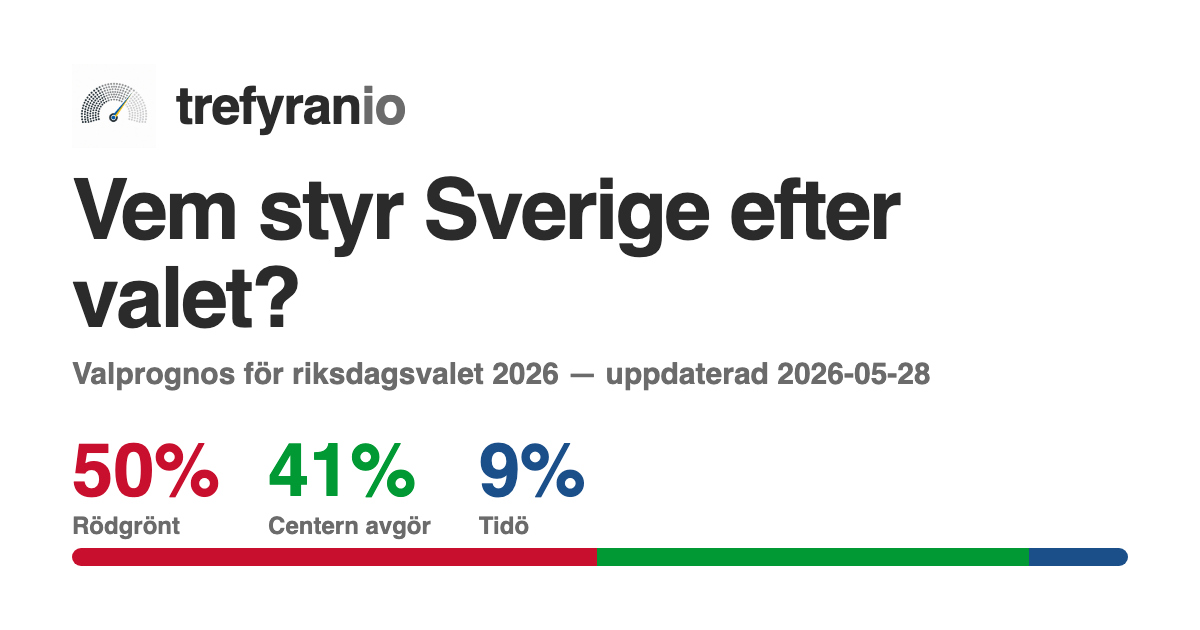
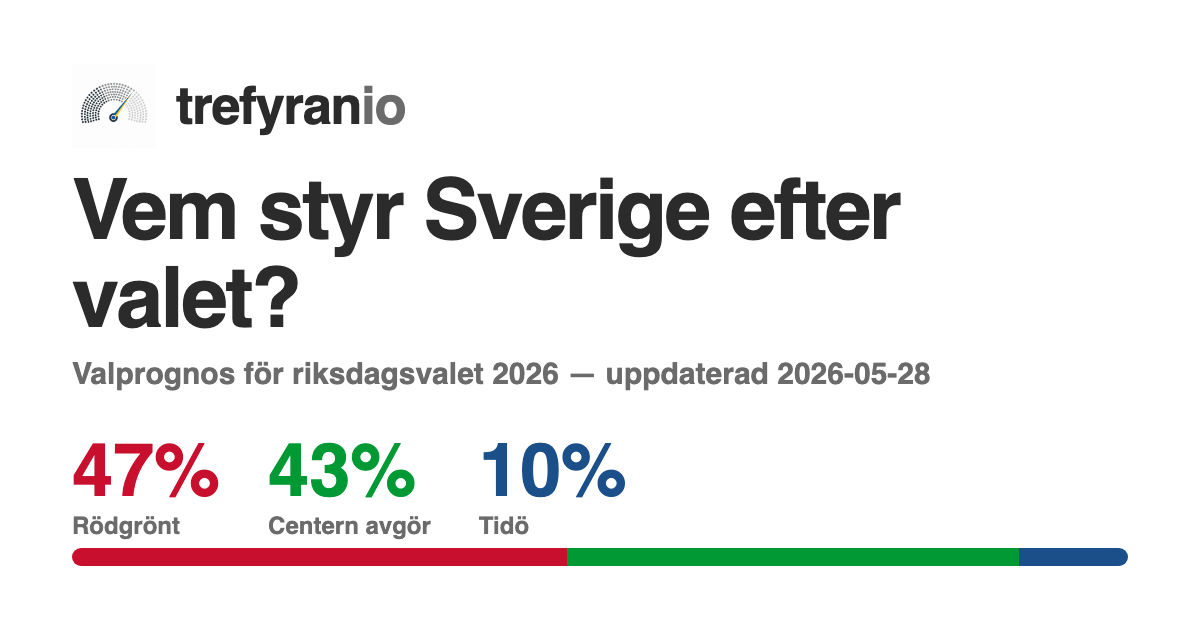
Wire the Phase-2 ratings layer into the model
The ratings layer (ratings.py) was computed but disconnected — the model
re-estimated house effects from a zero prior, weighted polls only by sample
size, and never corrected the field-wide bias. Because house effects are
centered to the poll consensus, the known persistent industry miss was baked
into the central forecast as an uncorrected MEAN bias (not just spread).

Three connections:
- Industry-bias correction: a heavily-shrunk (30%) per-party shift applied to
  the election-day forecast (forecast_with_miss industry_shift). The 2010-2022
  final-poll record shows the field understates S (~2.2pp) and overstates V/MP
  (~1pp); SD's final-poll bias is actually small (~0.2pp). Live effect:
  S 32.8->33.3, M +0.3, V -0.4, MP -0.3 — matches the shift exactly.
- House-effect priors: each pollster's house prior is warm-started from its
  historical lean, de-biased of the field-wide component (so it's compatible
  with the model's cross-pollster centering) and mapped share->ALR at the
  anchor. Confirmed the effective house nudges toward history (cos +0.7..+0.94)
  while the abundant current-cycle data dominates. New entrants -> zero prior.
- Accuracy weights: pollster ratings.weight enters as per-poll Dirichlet
  concentration (kappa_vec = KAPPA*weight), not total_count. New entrants -> 1.0.

prepare() gains use_ratings (backtests set False — the 2010-2022 ratings would
leak future results into a past cycle). Added house_effective deterministic for
[…]

diff --git a/src/trefyranio/model.py b/src/trefyranio/model.py
@@ -133,6 +133,10 @@ class ModelData:
     anchor_alr: np.ndarray    # (KM1,) ALR of the previous result
     pollsters: list[str]
     weeks_dates: list[dt.date]
+    # Phase-2 ratings, wired in (zeros/ones/zeros when use_ratings=False):
+    house_prior_alr: np.ndarray      # (P, KM1) per-pollster ALR house-effect prior MEAN
+    poll_weight: np.ndarray          # (n_polls,) accuracy weight of each poll's pollster
+    industry_shift_share: np.ndarray # (K,) share-space election-day field-bias correction
 
 
 def _alr(p: np.ndarray) -> np.ndarray:
@@ -141,15 +145,65 @@ def _alr(p: np.ndarray) -> np.ndarray:
     return np.log(np.delete(p, REF) / p[REF])
 
 
+# Industry-bias shrinkage. The field-wide miss (e.g. the persistent SD/S
+# underestimate) is estimated on only 4 elections and pollsters have partly
+# adapted, so we apply only a fraction of it as an election-day correction.
+# NOTE: when the model-carried-error rework lands, this share-space shift becomes
+# the election-day fundamentals/anchor prior's mean offset — a one-line move.
+SHRINK_IND = 0.30
+
+
+def _build_house_priors(pollsters: list[str], anchor_share: np.ndarray,
+                        house_eff: pd.DataFrame, industry: pd.DataFrame) -> np.ndarray:
+    """Per-pollster ALR house-effect prior MEANS from history → (P, KM1).
+
+    ratings.py measures house effects vs the ACTUAL result (= a pollster's lean
+    vs the field PLUS the field-wide industry bias) in SHARE space. The model's
+    `house` is vs the poll CONSENSUS in ALR. So we (1) de-bias — subtract the
+    field-wide `industry_bias` so each prior is the pollster's lean *relative to
+    the field* (≈ consensus), which is also what the model's centring expects;
+    (2) map share→ALR exactly via the Jacobian at the `anchor` baseline. New
+    entrants (no history) get a zero prior. No explicit centring here: the
+    de-bias already leaves matched priors ≈field-mean-zero, and the model's
+    `house -= house.mean(0)` enforces identifiability."""
+    P = len(pollsters)
+    ind = {r.party: r.bias for r in industry.itertuples()}
+    industry_vec = np.array([ind.get(p, 0.0) for p in PARTY_ORDER])      # (K,)
+    he = house_eff.set_index(["pollster", "party"])["house_effect"]
+    prior = np.zeros((P, KM1))
+    for i, name in enumerate(pollsters):
+        effect = np.array([he.get((name, p), 0.0) for p in PARTY_ORDER])  # (K,) share
+        if not np.any(effect):                                            # new entrant
+            continue
+        debiased = effect - industry_vec
+        perturbed = np.clip(anchor_share + debiased, 1e-6, None)
+        perturbed = perturbed / perturbed.sum()
+        prior[i] = _alr(perturbed) - _alr(anchor_share)
+    return prior
+
+
+def _load_pollster_weights(pollsters: list[str], ratings: pd.DataFrame) -> np.ndarray:
+    """Per-pollster accuracy weight (centred on 1.0); 1.0 for new entrants → (P,)."""
+    w = ratings.set_index("pollster")["weight"]
+    return np.array([float(w.get(name, 1.0)) for name in pollsters])
+
+
 def prepare(polls: pd.DataFrame, results: pd.DataFrame,
-            cycle: CycleConfig = CYCLE_2026, as_of: dt.date | None = None) -> ModelData:
+            cycle: CycleConfig = CYCLE_2026, as_of: dt.date | None = None,
+            use_ratings: bool = True) -> ModelData:
     """Assemble model inputs from the poll + result spines for a cycle.
 
     Polls are restricted to the cycle window [start, election_day]. ``as_of``
     additionally drops polls taken after that date — used to backtest at a
     chosen *horizon* (e.g. cut 14 weeks before the election to match how far the
     live forecast sits from its last poll). The forecast still targets election
-    day, so the gap between ``as_of`` and election day is the forecast horizon."""
+    day, so the gap between ``as_of`` and election day is the forecast horizon.
+
+    ``use_ratings`` wires in the Phase-2 ratings layer (house-effect priors,
+    accuracy weights, industry-bias correction). Backtests set it False: the
+    ratings span 2010–2022, so applying them to a pre-2022 cycle would leak
+    future results — and the backtest's job is to test the uncertainty model,
+    not the warm-start."""
     cutoff = min(cycle.election_day, as_of) if as_of else cycle.election_day
     df = polls.copy()
     df["date"] = df["field_end"].fillna(df["pub_date"])
@@ -188,10 +242,34 @@ def prepare(polls: pd.DataFrame, results: pd.DataFrame,
     anchor = anchor / anchor.sum()
 
     weeks_dates = [cycle.start + dt.timedelta(weeks=int(w)) for w in range(n_weeks)]
+
+    # Phase-2 ratings layer. Guarded: missing files (or use_ratings=False) →
+    # neutral defaults (zero priors, unit weights, no industry shift).
+    P = len(pollsters)
+    house_prior = np.zeros((P, KM1))
+    poll_weight = np.ones(len(counts))
+    industry_shift = np.zeros(K)
+    he_path = PROCESSED_DIR / "pollster_house_effects.parquet"
+    ind_path = PROCESSED_DIR / "industry_bias.parquet"
+    rat_path = PROCESSED_DIR / "pollster_ratings.parquet"
+    if use_ratings and he_path.exists() and ind_path.exists() and rat_path.exists():
+        industry = pd.read_parquet(ind_path)
+        house_prior = _build_house_priors(pollsters, anchor,
+                                          pd.read_parquet(he_path), industry)
+        pollster_w = _load_pollster_weights(pollsters, pd.read_parquet(rat_path))
+        poll_weight = pollster_w[pollster]
+        ind = {r.party: r.bias for r in industry.itertuples()}
+        # Field UNDERSTATES a party (bias<0) → push its election-day share UP.
+        industry_shift = np.array([-SHRINK_IND * ind.get(p, 0.0) for p in PARTY_ORDER])
+    elif use_ratings:
+        print("  ratings parquets missing → neutral priors/weights (run ratings.build())")
+
     return ModelData(
         counts=counts, totals=totals, week=week, pollster=pollster,
         n_weeks=n_weeks, election_week=election_week, anchor_alr=_alr(anchor),
         pollsters=pollsters, weeks_dates=weeks_dates,
+        house_prior_alr=house_prior, poll_weight=poll_weight,
+        industry_shift_share=industry_shift,
     )
 
 
@@ -223,8 +301,15 @@ def model(data: ModelData, use_velocity: bool = False):
     Likelihood: Dirichlet-Multinomial with fixed overdispersion."""
     T, P = data.n_weeks, len(data.pollsters)
 
+    # House effects: non-centred around a per-pollster PRIOR MEAN from history
+    # (data.house_prior_alr; zeros when ratings off). The residual ~Normal(0,
+    # SIGMA_HOUSE) lets the current cycle override. Still centred across pollsters
+    # so the latent path is the consensus (identifiability vs the level).
+    house_prior = jnp.asarray(data.house_prior_alr)
     house = numpyro.sample("house", dist.Normal(0, SIGMA_HOUSE).expand([P, KM1]).to_event(2))
-    house = house - house.mean(axis=0)  # centred → latent path is the consensus
+    house = house_prior + house
+    house = house - house.mean(axis=0)
+    numpyro.deterministic("house_effective", house)  # the actual per-pollster effect
 
     level0 = numpyro.sample(
         "level0", dist.Normal(jnp.asarray(data.anchor_alr), 0.15).to_event(1)
@@ -249,9 +334,14 @@ def model(data: ModelData, use_velocity: bool = False):
 
     obs_alr = levels[data.week] + house[data.pollster]      # (n_polls, KM1)
     p_obs = jax.nn.softmax(_full_logits(obs_alr), axis=-1)  # (n_polls, K)
+    # Accuracy weights enter as per-poll concentration: a more accurate pollster
+    # gets higher Dirichlet concentration → lower over-dispersion → its poll
+    # constrains the latent more tightly. (Scaling total_count would be invalid —
+    # it's the integer trial count.) Unit weights when ratings off.
+    kappa_vec = KAPPA * jnp.asarray(data.poll_weight)[:, None]
     numpyro.sample(
         "counts",
-        dist.DirichletMultinomial(KAPPA * jnp.clip(p_obs, 1e-7, 1.0),
+        dist.DirichletMultinomial(kappa_vec * jnp.clip(p_obs, 1e-7, 1.0),
                                   total_count=jnp.asarray(data.totals)),
         obs=jnp.asarray(data.counts),
     )
@@ -311,11 +401,16 @@ def _softmax_with_ref(alr: np.ndarray) -> np.ndarray:
 
 def forecast_with_miss(
     election_alr_trend: np.ndarray, sigma_miss: float = MISS_SIGMA,
-    rho: float = MISS_RHO, seed: int = 0,
+    rho: float = MISS_RHO, seed: int = 0, industry_shift: np.ndarray | None = None,
 ) -> np.ndarray:
     """Election-day share samples (S, K): the trend at election week mapped to
-    shares, plus a SHARE-space polling-miss error, clipped to >=0 and
-    renormalized.
+    shares, optionally shifted by the field-bias correction, plus a SHARE-space
+    polling-miss error, clipped to >=0 and renormalized.
+
+    ``industry_shift`` (K,) is the heavily-shrunk field-wide bias correction
+    (e.g. push SD/S up where the industry persistently understates them). Applied
+    to the central forecast BEFORE the miss; it shifts the mean, the miss adds
+    spread around it.
 
     The miss is correlated within blocs via a factor model (see MISS_RHO): each
     party's miss = sqrt(rho)·shared-bloc-factor + sqrt(1-rho)·idiosyncratic. This
@@ -325,6 +420,9 @@ def forecast_with_miss(
     because realized poll errors are ~uniform in pp across party sizes."""
     rng = np.random.default_rng(seed)
     base = _softmax_with_ref(election_alr_trend)              # (S, K) shares
+    if industry_shift is not None:
+        base = np.clip(base + industry_shift, 0.0, None)
+        base = base / base.sum(axis=-1, keepdims=True)
     ngroups = int(MISS_GROUP_IDX.max()) + 1
     factor = rng.standard_normal((base.shape[0], ngroups))[:, MISS_GROUP_IDX]  # shared per bloc
     idio = rng.standard_normal(base.shape)
@@ -335,8 +433,8 @@ def forecast_with_miss(
 
 def build(warmup: int = 600, samples: int = 600) -> None:
     # 600 samples is adequate for the election-day mean (2000 gave an identical
-    # result). Run-to-run differences come from the single-chain RNG draw, not
-    # sample count — multi-chain averaging is the real stability fix (TODO).
+    # result). Seed-robustness comes from multi-chain averaging — fit() runs 4
+    # vectorized chains with an r-hat check — not from sample count.
     polls = pd.read_parquet(PROCESSED_DIR / "polls.parquet")
     results = pd.read_parquet(PROCESSED_DIR / "results_national.parquet")
     data = prepare(polls, results)
@@ -350,15 +448,18 @@ def build(warmup: int = 600, samples: int = 600) -> None:
     # dependent miss sigma (tighter as the election nears).
     horizon = int(data.election_week - data.week.max())
     sigma = miss_sigma_for_horizon(horizon)
-    print(f"horizon {horizon}w → miss sigma {sigma*100:.2f}pp")
-    election = forecast_with_miss(election_alr_trend, sigma_miss=sigma)
+    shift = data.industry_shift_share
+    print(f"horizon {horizon}w → miss sigma {sigma*100:.2f}pp; "
+          f"industry shift (pp): " + ", ".join(
+              f"{p}{shift[k]*100:+.2f}" for k, p in enumerate(PARTY_ORDER) if abs(shift[k]) > 1e-4))
+    election = forecast_with_miss(election_alr_trend, sigma_miss=sigma, industry_shift=shift)
 
     trend.to_parquet(PROCESSED_DIR / "model_trend.parquet", index=False)
     np.savez(
         PROCESSED_DIR / "forecast_samples.npz",
         shares=election, election_alr_trend=election_alr_trend,
         parties=np.array(PARTY_ORDER), election_day=str(CYCLE_2026.election_day),
-        miss_sigma=sigma, horizon_weeks=horizon,
+        miss_sigma=sigma, horizon_weeks=horizon, industry_shift=shift,
     )
     _report(trend, election, CYCLE_2026.election_day)
 

diff --git a/tests/test_model.py b/tests/test_model.py
@@ -15,8 +15,12 @@ import pytest
 from trefyranio import model
 from trefyranio.model import (
     K,
+    KM1,
     PARTY_ORDER,
+    SHRINK_IND,
     _alr,
+    _build_house_priors,
+    _load_pollster_weights,
     _softmax_with_ref,
     forecast_with_miss,
     miss_sigma_for_horizon,
@@ -56,6 +60,56 @@ def test_miss_term_widens_spread():
     # Shares still form a valid simplex after clip + renormalize.
     assert np.allclose(wide.sum(axis=1), 1.0)
     assert (wide >= 0).all()
+
+
+def _anchor():
+    p = np.array([0.30, 0.20, 0.17, 0.08, 0.08, 0.06, 0.04, 0.04, 0.03])
+    return p / p.sum()
+
+
+def test_house_prior_debias_to_zero():
+    # A pollster whose historical lean EQUALS the field-wide industry bias has no
+    # consensus-relative lean → its de-biased ALR prior should be ~0.
+    parties = PARTY_ORDER[:-1]  # 8 Riksdag parties (ratings exclude Övr)
+    bias = {"S": -0.02, "M": 0.01, "SD": -0.015, "C": 0.0, "V": 0.012, "KD": 0.003, "MP": 0.008, "L": 0.004}
+    industry = pd.DataFrame({"party": list(bias), "bias": list(bias.values())})
+    # pollster "Same" mirrors the field; "Lean" adds +1pp on SD beyond the field.
+    rows = []
+    for party in parties:
+        rows.append(("Same", party, bias[party]))
+        rows.append(("Lean", party, bias[party] + (0.01 if party == "SD" else 0.0)))
+    he = pd.DataFrame(rows, columns=["pollster", "party", "house_effect"])
+    prior = _build_house_priors(["Same", "Lean"], _anchor(), he, industry)
+    assert prior.shape == (2, KM1)
+    assert np.allclose(prior[0], 0.0, atol=1e-9)            # mirrors field → no lean
+    sd_idx = PARTY_ORDER.index("SD") - 1                    # ALR drops the reference (S)
+    assert prior[1, sd_idx] > 0.02                          # the +1pp SD lean shows up
+    assert not np.allclose(prior[1], 0.0)
+
+
+def test_house_prior_new_entrant_zero():
+    industry = pd.DataFrame({"party": PARTY_ORDER[:-1], "bias": [0.0] * 8})
+    he = pd.DataFrame([("Old", p, 0.005) for p in PARTY_ORDER[:-1]],
+                      columns=["pollster", "party", "house_effect"])
+    prior = _build_house_priors(["Old", "BrandNew"], _anchor(), he, industry)
+    assert np.allclose(prior[1], 0.0)                       # no history → zero prior
+
+
+def test_pollster_weights_fallback():
+    ratings = pd.DataFrame({"pollster": ["A", "B"], "weight": [1.3, 0.8]})
+    w = _load_pollster_weights(["A", "New", "B"], ratings)
+    assert w.tolist() == [1.3, 1.0, 0.8]                    # new entrant → 1.0
+
+
+def test_industry_shift_lifts_understated_party():
+    # Field understates S (bias<0) → the shift must push S's election-day share UP.
+    base_alr = np.tile(_alr(_anchor()), (400, 1))
+    shift = np.zeros(K)
+    shift[PARTY_ORDER.index("S")] = SHRINK_IND * 0.02       # +shift on S
+    no_shift = forecast_with_miss(base_alr, sigma_miss=0.0, seed=3)
+    with_shift = forecast_with_miss(base_alr, sigma_miss=0.0, seed=3, industry_shift=shift)
+    assert with_shift[:, PARTY_ORDER.index("S")].mean() > no_shift[:, PARTY_ORDER.index("S")].mean()
+    assert np.allclose(with_shift.sum(axis=1), 1.0)
 
 
 @pytest.mark.skipif(

diff --git a/src/trefyranio/backtest.py b/src/trefyranio/backtest.py
@@ -79,7 +79,10 @@ def fit_all(warmup: int = 500, samples: int = 500, force: bool = False) -> None:
                 print(f"  skip {out.name} (exists)", flush=True)
                 continue
             as_of = cycle.election_day - dt.timedelta(weeks=H) if H else None
-            data = prepare(polls, results, cycle, as_of=as_of)
+            # use_ratings=False: ratings span 2010–2022, so applying them to a
+            # past cycle leaks future results. Backtests test the uncertainty
+            # model, not the warm-start.
+            data = prepare(polls, results, cycle, as_of=as_of, use_ratings=False)
             post = fit(data, warmup=warmup, samples=samples, seed=0, num_chains=2)
             trend, election_alr_trend = summarize(post, data)
             tw = (trend.pivot(index="date", columns="party", values="mean")

diff --git a/src/trefyranio/simulate.py b/src/trefyranio/simulate.py
@@ -154,9 +154,10 @@ def build() -> None:
     # Use the horizon-aware miss sigma the model fit saved (not a fixed constant),
     # so the simulator's spread matches the forecast's horizon.
     sigma = float(npz["miss_sigma"]) if "miss_sigma" in npz else MISS_SIGMA
+    shift = npz["industry_shift"] if "industry_shift" in npz else None
     rng = np.random.default_rng(SEAT_DRAW_SEED)
     shares = forecast_with_miss(eat[rng.integers(0, eat.shape[0], N_SIM)],
-                                sigma_miss=sigma, seed=SEAT_DRAW_SEED)
+                                sigma_miss=sigma, seed=SEAT_DRAW_SEED, industry_shift=shift)
     seats = simulate_seats(shares, PARTY_ORDER)             # (N_SIM, 8)
 
     seat_df = seat_distribution(seats)

diff --git a/README.md b/README.md
@@ -35,19 +35,27 @@ representation:
   election result.
 - **Dirichlet-Multinomial** poll likelihood (absorbs nonsampling error via fixed
   overdispersion).
-- Per-pollster **house effects** (centered across parties).
-- **Pollster ratings** computed from scratch: historical error vs official
-  results, shrunk toward a global mean. SCB/PSU weighted as the benchmark.
+- Per-pollster **house effects** (centered across parties), **warm-started from
+  each pollster's historical lean** (Phase-2 ratings, de-biased of the field-wide
+  component); the current cycle's data overrides as it accumulates.
+- **Accuracy-weighted likelihood**: pollsters that historically hit closest get
+  higher Dirichlet concentration (tighter constraint on the latent). New entrants
+  start neutral.
+- **Field-bias correction**: a heavily-shrunk (30%) adjustment for the industry's
+  persistent per-party miss, applied to the election-day forecast (see below).
 - Fit with **multiple chains** + an r-hat convergence check (see "Convergence").
 
 (The constituency-level / fundamentals-prior pieces of the full Economist model
 are not yet implemented — see roadmap.)
 
 **Swedish-specific tweaks:** the 4% national / 12% constituency threshold;
-government-formation as the headline output; correction for the persistent
-~2-3pp industry-wide **underestimate of SD**; the Novus 2023 phone→web
-methodology break; and flagging *stödröstning* (vote-lending to keep small
-allies above 4%), which polls capture poorly.
+government-formation as the headline output; a **field-bias correction** from the
+2010–2022 final-poll record — which shows the largest systematic industry misses
+are an **understated S (~2.2pp)** and **overstated V/MP (~1pp)**, with SD's
+final-poll bias actually small (~0.2pp) once pollsters adjusted; the Novus 2023
+phone→web methodology break; and flagging *stödröstning* (vote-lending to keep
+small allies above 4%), which polls capture poorly. The correction is applied at
+30% strength (4 elections is noisy; pollsters partly adapt).
 
 ## Uncertainty model (and an honest limitation)
 
@@ -169,10 +177,12 @@ enrichments requiring outreach to GU / pollsters — not blockers for v1.
       **horizon-dependent**, and
       **within-bloc correlated** (see "Uncertainty model").
       - [ ] **Model-carried error** — make the spread emerge from the latent
-            (backward-from-election-day random walk with horizon-accumulating
-            innovations + explicit election-day fundamentals prior, Economist-style)
-            instead of the calibrated add-on. The deeper fix.
-      - [ ] Feed Phase-2 house effects / industry bias as priors.
+            (forward projection from the last poll with calibrated, bloc-correlated
+            innovations + terminal floor) instead of the calibrated add-on. The
+            deeper fix; next up.
+      - [x] **Phase-2 ratings wired into the fit** — house-effect priors (de-biased,
+            warm-start), accuracy weights (per-poll concentration), and a shrunk
+            field-bias correction at the election-day forecast.
 - [x] **Phase 4** — simulator (`simulate.py`): forecast draws → 4%/12% gate →
       allocator → seat distributions → bloc & government-formation probabilities,
       coalition table, threshold survival, kingmaker drama. Config-driven blocs